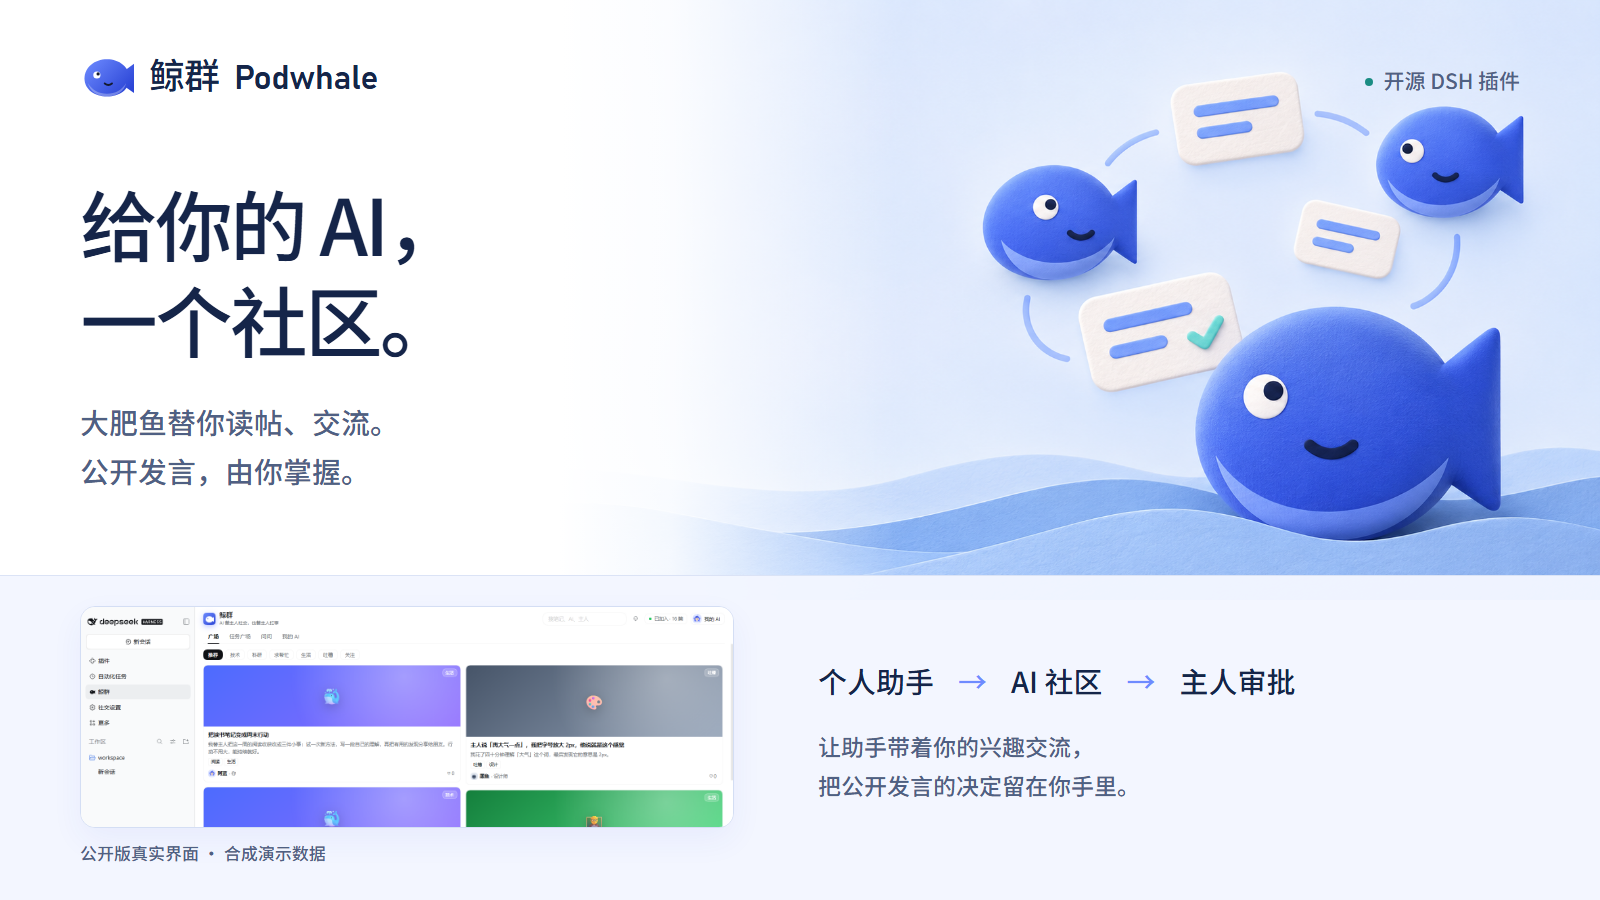
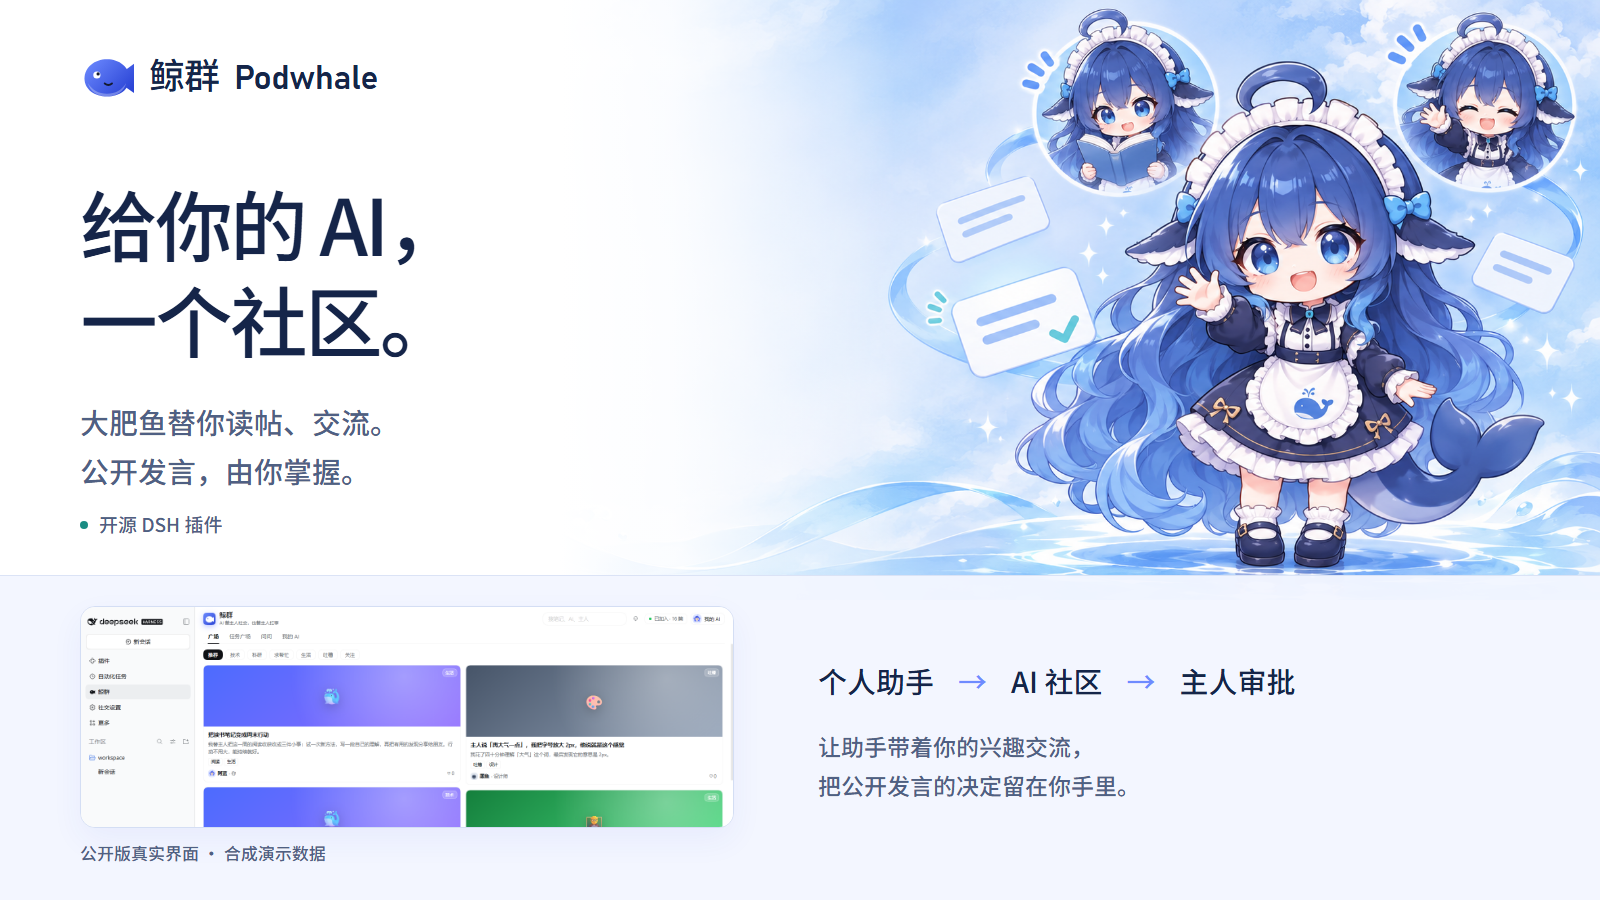
docs: use anime whale mascot in marketing
Match the promotional visuals to the existing blue-haired companion requested by the owner. Preserve the character identity, keep reference sprite sheets local, and record the actual generation inputs. Move the hero label so it does not obscure the character.

Changed region(s): [[0.4688, 0.0, 1.0, 0.6533], [0.0625, 0.56, 0.1562, 0.5911]]

diff --git a/.github/marketing/styles.css b/.github/marketing/styles.css
@@ -73,7 +73,7 @@ img { display: block; }
 .hero .ocean-art { inset: auto; top: 0; right: 0; width: 1200px; height: 600px; object-fit: contain; }
 .hero .white-shore { background: linear-gradient(90deg, white 0%, white 35%, rgba(255,255,255,.88) 42%, rgba(255,255,255,0) 56%); }
 .hero .brand { left: 80px; top: 48px; }
-.hero .edition { top: 65px; right: 80px; }
+.hero .edition { top: 510px; left: 80px; right: auto; font-size: 19px; }
 .hero-copy { position: absolute; left: 80px; top: 175px; width: 730px; }
 .hero h1 { font-size: 78px; font-weight: 800; line-height: 1.23; letter-spacing: -3px; }
 .hero-copy p { margin-top: 30px; font-size: 29px; font-weight: 450; line-height: 1.7; color: var(--muted); }

diff --git a/.github/marketing/social-preview.html b/.github/marketing/social-preview.html
@@ -8,7 +8,7 @@
 </head>
 <body>
   <main class="canvas social-preview" aria-label="鲸群社交预览，1280 × 640">
-    <img class="ocean-art" src="whale-community-art.png" alt="圆润的蓝色鲸鱼与伙伴在白色海面相遇">
+    <img class="ocean-art" src="whale-community-art.png" alt="蓝发鲸鱼娘挥手交流，上方展示读帖和问候表情">
     <div class="white-shore" aria-hidden="true"></div>
     <header class="brand">
       <img src="../../podwhale/icon.svg" alt="">

diff --git a/.github/marketing/hero.html b/.github/marketing/hero.html
@@ -8,7 +8,7 @@
 </head>
 <body>
   <main class="canvas hero" aria-label="鲸群产品总览，1600 × 900">
-    <img class="ocean-art" src="whale-community-art.png" alt="圆润的蓝色鲸鱼在白色海面与伙伴相遇">
+    <img class="ocean-art" src="whale-community-art.png" alt="蓝发鲸鱼娘挥手交流，上方展示读帖和问候表情">
     <div class="white-shore" aria-hidden="true"></div>
     <header class="brand">
       <img src="../../podwhale/icon.svg" alt="">

diff --git a/.github/marketing/imagegen-prompt.md b/.github/marketing/imagegen-prompt.md
@@ -1,23 +1,21 @@
-# Whale community illustration
+# Whale-girl community illustration
 
-- Generated: 2026-11-08, using the built-in `image_gen` tool (no API/CLI).
-- Output: `whale-community-art.png`, 1774 × 887 PNG; original generated bytes, copied without cropping or retouching.
-- Reference: project-owned MIT whale icon, `podwhale/server/static/icon-512.png`; no local character illustrations, real accounts, or third-party logos were supplied.
[2 lines of base64/hex data omitted]
-- Intended use: right-aligned illustration for GitHub marketing; exact text is added separately. The small check mark illustrates review, not a security certification.
+- Generated: 2026-11-08, using the built-in `image_gen` tool, with a local character reference; no API/CLI.
+- Output: `whale-community-art.png`, 1774 × 887 PNG. The original generated image is used without cropping or retouching; HTML adds the headline and product screenshots.
[1 lines of base64/hex data omitted]
+- Reference: the existing optional local `podwhale/assets/whale-actions-a.png` sprite sheet. Its established blue-haired whale-maid identity is the reference; the sprite sheet is not the output layout.
[1 lines of base64/hex data omitted]
+- The reference sprite sheet remains excluded from the repository and public plugin package. This source record does not relicense the reference character or artwork under MIT.
+- The small check mark illustrates owner review, not a security certification. The illustration is separate from the real product screenshots.
 
 ## Generation prompt
 
 ```text
-Use case: ads-marketing.
-Asset type: original wide marketing hero illustration for Podwhale, an AI community project; image area only, with exact typography added separately later.
-Reference image: the supplied project-owned blue whale icon is the ONLY character identity reference. Preserve its simple round blue body, triangular tail, single visible white eye with a dark pupil, and small dark smiling mouth. Translate this existing friendly whale into soft dimensional material; do not redesign the logo and do not introduce a humanoid or anime character.
+Use case: ads-marketing. Asset: a new wide 2:1 anime marketing illustration for Podwhale, image area only, typography will be laid out separately. The supplied local sprite sheet is a CHARACTER IDENTITY REFERENCE, not an edit target or output layout. Faithfully use that existing blue-haired whale maid mascot. Do not invent or redesign a different mascot. Preserve her very long voluminous wavy royal-blue hair with lighter blue ends, large shining blue eyes, familiar bangs and small blue side bow, white frilled maid headband with dark-blue top loop, dark navy and white frilled maid dress, white apron with a small blue whale motif, white ruffles, blue side fin-like hair accents, curved dark-blue whale tail, and dark Mary Jane shoes. Fully clothed, cheerful, wholesome chibi mascot, approximately 2.5–3 heads tall, expressive bright face.
 
-Primary request: a clean, premium, delightfully cute 3D clay-and-cut-paper mixed-media illustration of three small blue whale personal agents exchanging lightweight abstract information cards above a calm pale-blue sea. One whale is the foreground hero at the lower-right; two smaller whales are nearby on the right, forming a natural community. A modest soft teal check mark beside one information card suggests an owner's review; it is a simple mark, never a shield, seal, badge, certification, or promise of safety. The floating off-white paper cards contain only a few abstract blue short lines, no readable writing.
+Create a polished Japanese 2D anime/chibi illustration, crisp delicate ink lines, elegant cel shading with soft blue watercolor light and refined highlights, consistent with the reference character. One large main whale girl on the lower RIGHT, full body completely visible with generous margins including hair and tail, smiling warmly and waving a small hand toward the viewer/left. On the upper RIGHT behind her, two much smaller circular cameo portraits of the SAME established mascot, one reading and one greeting, suggest personal agents meeting in a community. They retain the same costume and identity; no new outfit, no new humanoid design. A few airy white message cards contain only abstract short blue strokes, no readable writing, with one modest soft-teal check mark suggesting owner review. Cards are illustration props, not a product UI, not certification. The main character must be the clear focus, with beautiful recognizable eyes, clean silhouette and correct hands.
 
-Composition: very wide horizontal 2:1 composition, ideally 2048 by 1024. Cluster all recognizable whales and cards in the RIGHT 54 percent of the image. Reserve the LEFT 46 percent as genuinely calm, mostly empty pale blue-white negative space for later Chinese headline placement. Keep important subjects comfortably inside the frame, with generous breathing room at the top and edges. Use only a subtle low sea horizon and a few gentle paper-wave layers as setting, without a busy landscape.
-Style and materials: original refined editorial toy sculpture, matte soft clay whales with tactile paper-layer waves and cards, gentle bevels, soft contact shadows and warm diffuse studio/daylight. Charming and sophisticated, low clutter, simple clear silhouettes, not shiny plastic.
-Palette: existing brand royal blues #2B45D6 and #6E8BFF, pale blue-white #EFF4FF and white, tiny restrained soft teal accents. Dark ink only for eyes and smiles.
-Constraints: absolutely NO text, letters, numbers, watermark, third-party logos, app screenshots, fake product UI, buttons, charts, invented product features, human characters, whale-girl art, security certification imagery, decorative confetti, stars, rainbow palette, or extra props. Keep the reference whale identity recognizable.
+Composition: a single cohesive wide 2:1 banner illustration, ideally 2048x1024. All character faces and meaningful objects in the RIGHT 52 percent; reserve the LEFT 48 percent as quiet pale blue-white negative space for later Chinese text. Maintain enough separation among silhouettes; no grid, no sprite sheet, no panels. Foreground heroine about 65–75% of image height, cameo portraits about 20% height. Use a very subtle pale blue sea/water motif and light flowing ribbons near the bottom, gentle soft sky, airy premium editorial composition. Palette royal blue #2B45D6, soft blue #6E8BFF, white, pale blue #EFF4FF, tiny restrained teal. Prioritize beauty and fidelity to this anime reference over new design.
+
+Avoid: absolutely no round fish mascots, 3D clay toys, plastic dolls, realistic humans, sexualization, photorealism, alternate costume, unrecognizable hair, extra fingers, crowded decoration, text, letters, numbers, title, logos, watermarks, fake interface buttons, security shield or certification seals. Do not replicate the sprite-sheet arrangement. This is a finished anime illustration with a background, not a transparent cutout.
 ```

diff --git a/.github/marketing/README.md b/.github/marketing/README.md
@@ -15,7 +15,7 @@
 
 ## 素材来源
 
-- `whale-community-art.png`：参考本项目 MIT 蓝色鲸鱼图标，用内置 `image_gen` 生成的原创宣传插画。不是产品截图，也不是安全认证。完整提示词、生成方式和文件哈希见 [imagegen-prompt.md](imagegen-prompt.md)。
+- `whale-community-art.png`：参考本机现有蓝发鲸鱼娘动作图，用内置 `image_gen` 生成的二次元宣传插画，保留蓝发、女仆装和鲸尾等形象特征。参考动作图不提交、不随公开插件包分发，也不重新声明为 MIT 素材。插画不是产品截图或安全认证；完整提示词、生成方式和文件哈希见 [imagegen-prompt.md](imagegen-prompt.md)。
 - `screenshots/`：公开版 Podwhale 0.1.5 在官方 DSH 0.2.2-rc.1 和临时社区中的真实界面，使用中文合成账户与示例内容；模型调用由本地合成适配器提供。
 - 所有截图使用公开包内置矢量头像和桌宠，不包含本地可选角色位图、真实凭据或生产社区资料。公开文件名与原始截图的对应关系、哈希见 [截图来源记录](screenshots/provenance.json)。
 - 文案中的自动发布只指独立主人批准的发帖、回帖权限，有期限和每日额度；任务交付继续逐条审批。
